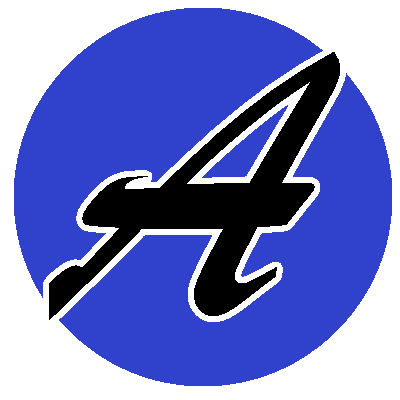
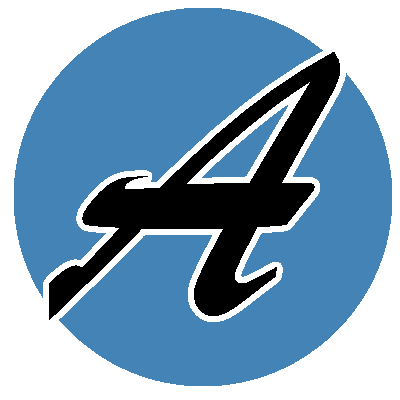
Change of colour scheme

diff --git a/src/compents/ProjectDisplay.js b/src/compents/ProjectDisplay.js
@@ -28,7 +28,7 @@ export default function ProjectDisplay(){
         return(
             <div>
                 <div onClick={handleClick}>
-                    <h1 style={{color : '#3041cb', fontSize : "4vmax", display: 'inline-flex'}}>
+                    <h1 style={{color : '#4483b6', fontSize : "4vmax", display: 'inline-flex'}}>
                         <b>Projects [8]</b>
                     </h1>
                     {isDisplay &&
@@ -44,7 +44,7 @@ export default function ProjectDisplay(){
                     <div style={{display: 'inline-flex'}}>
                         <img src={BilletSortingSystem} style={{width: '40%',  height:'40%', float: 'left'}}/>
                         <div style={{height : '50%', width: '50%', marginLeft: '0.5vmin'}}>
-                            <h2 style={{color : '#3041cb', fontSize : "3vmax"}}><b>Billet Sorting System</b></h2>
+                            <h2 style={{color : '#4483b6', fontSize : "3vmax"}}><b>Billet Sorting System</b></h2>
                             <h3 style={{color : 'white', fontSize : "1.5vmax"}}>
                             This was a team project for Engineering Education Scheme Wales. I lead this project to prove a concept to a 
                             local company. We also presented this project to the customer along with displaying it at a convention
@@ -55,7 +55,7 @@ export default function ProjectDisplay(){
                     <div style={{display: 'inline-flex'}}>                    
                     <img src={SolarCharger} style={{width: '40%',  height:'40%', float: 'left'}}/>
                         <div style={{height : '50%', width: '50%', marginLeft: '0.5vmin'}}>
-                            <h2 style={{color : '#3041cb', fontSize : "3vmax"}}><b>Solar Powered Phone Charger</b></h2>
+                            <h2 style={{color : '#4483b6', fontSize : "3vmax"}}><b>Solar Powered Phone Charger</b></h2>
                             <h3 style={{color : 'white', fontSize : "1.5vmax"}}>
                             This project is incredably simple, buy some solar panels solder a diode to prevent backflow. Then charge your phone (all be it slowly).
                             I also had to work out exactly how USB power rails worked but that was about it.
@@ -66,7 +66,7 @@ export default function ProjectDisplay(){
                     <div style={{display: 'inline-flex'}}>
                         <img src={Speaker} style={{width: '40%',  height:'40%', float: 'left'}}/>
                         <div style={{height : '50%', width: '50%', marginLeft: '0.5vmin'}}>
-                            <h2 style={{color : '#3041cb', fontSize : "3vmax"}}><b>Sound to Light Speaker</b></h2>
+                            <h2 style={{color : '#4483b6', fontSize : "3vmax"}}><b>Sound to Light Speaker</b></h2>
                             <h3 style={{color : 'white', fontSize : "1.5vmax"}}>
                             The core idea here is to use a microphone to identify 3 different tones. When the corresponding tone is played that colour LED lights up. 
                             This is really satisfying to watch
@@ -77,7 +77,7 @@ export default function ProjectDisplay(){
                     <div style={{display: 'inline-flex'}}>
                         <img src={PinBall} style={{width: '40%',  height:'40%', float: 'left'}}/>
                         <div style={{height : '50%', width: '50%', marginLeft: '0.5vmin'}}>
-                            <h2 style={{color : '#3041cb', fontSize : "3vmax"}}><b> Pinball Machine</b></h2>
+                            <h2 style={{color : '#4483b6', fontSize : "3vmax"}}><b> Pinball Machine</b></h2>
                             <h3 style={{color : 'white', fontSize : "1.5vmax"}}>
                             I made this when I was 15, this was my first personal project. The only technical part of this project was the solenoids that provide the force to flippers. 
                             This was actually no easy task, using high voltage is dangerous and I destroyed a few diodes before it worked
@@ -88,7 +88,7 @@ export default function ProjectDisplay(){
                     <div style={{display: 'inline-flex'}}>
                         <img src={Flask} style={{width: '40%',  height:'40%', float: 'left'}}/>
                         <div style={{height : '50%', width: '50%', marginLeft: '0.5vmin'}}>
-                            <h2 style={{color : '#3041cb', fontSize : "3vmax"}}><b>Self-Heating Flask</b></h2>
+                            <h2 style={{color : '#4483b6', fontSize : "3vmax"}}><b>Self-Heating Flask</b></h2>
                             <h3 style={{color : 'white', fontSize : "1.5vmax"}}>
                             So the core idea behind this project was to detect the temperature within the flask, and make it constant. I did this by modifying a flash that I brought, I wrapped chromium wire around the inside of the flash. Then used a thermistor to control when the heating element was active. 
                             I actually wrote the control in basic
@@ -99,7 +99,7 @@ export default function ProjectDisplay(){
                     <div style={{display: 'inline-flex'}}>
                         <img src={BinaryClock} style={{width: '40%',  height:'40%', float: 'left'}}/>
                         <div style={{height : '50%', width: '50%', marginLeft: '0.5vmin'}}>
-                            <h2 style={{color : '#3041cb', fontSize : "3vmax"}}><b>Binary Clock</b></h2>
+                            <h2 style={{color : '#4483b6', fontSize : "3vmax"}}><b>Binary Clock</b></h2>
                             <h3 style={{color : 'white', fontSize : "1.5vmax"}}>
                             The basic concept here is that the top row of LEDs displays the hour and the bottom row displays the minutes. The casing for this project was made out of scrapes that I found around the house,
                             the log (where the LEDs are housed) was from a tree that feel near my house.
@@ -110,7 +110,7 @@ export default function ProjectDisplay(){
                     <div style={{display: 'inline-flex'}}>
                         <img src={Airgun} style={{width: '40%',  height:'40%', float: 'left'}}/>
                         <div style={{height : '50%', width: '50%', marginLeft: '0.5vmin'}}>
-                            <h2 style={{color : '#3041cb', fontSize : "3vmax"}}><b>Airgun</b></h2>
+                            <h2 style={{color : '#4483b6', fontSize : "3vmax"}}><b>Airgun</b></h2>
                             <h3 style={{color : 'white', fontSize : "1.5vmax"}}>
                             This was a fun project, it’s every simple in design. Take some large plastic bottles form airtight seals between them and pump air into them to cause high pressure within the 2-liter bottles.
                             Then use a trigger of some sort to form to release this air and carry BB pellets.
@@ -121,7 +121,7 @@ export default function ProjectDisplay(){
                     <div style={{display: 'inline-flex'}}>
                         <img src={Website} style={{width: '40%',  height:'40%', float: 'left'}}/>
                         <div style={{height : '50%', width: '50%', marginLeft: '0.5vmin'}}>
-                            <h2 style={{color : '#3041cb', fontSize : "3vmax"}}><b> My First Version of this Website</b></h2>
+                            <h2 style={{color : '#4483b6', fontSize : "3vmax"}}><b> My First Version of this Website</b></h2>
                             <h3 style={{color : 'white', fontSize : "1.5vmax"}}>
                             I was just getting to grips with the core concepts of HTML and CSS. Hopefully you will see how the site has improved over time,
                             as I have become more familar with web design.

diff --git a/src/compents/GameDisplay.js b/src/compents/GameDisplay.js
@@ -29,7 +29,7 @@ export default function GameDisplay() {
         return(
             <div>
                 <div onClick={handleClick}>
-                    <h1 style={{color : '#3041cb', fontSize : "4vmax", display: 'inline-flex'}}>
+                    <h1 style={{color : '#4483b6', fontSize : "4vmax", display: 'inline-flex'}}>
                         <b>Games [9]</b>
                     </h1>
                     {isDisplay &&
@@ -45,7 +45,7 @@ export default function GameDisplay() {
                     <div style={{display: 'inline-flex'}}>
                         <img src={DinoFight} style={{width: '40%',  height:'40%', float: 'left'}}/>
                         <div style={{height : '50%', width: '50%', marginLeft: '0.5vmin'}}>
-                            <h2 style={{color : '#3041cb', fontSize : "3vmax"}}><b>Dino Fight</b></h2>
+                            <h2 style={{color : '#4483b6', fontSize : "3vmax"}}><b>Dino Fight</b></h2>
                             <h3 style={{color : 'white', fontSize : "1.5vmax"}}>
                             This was my first local multiplayer game (party game). This is a fighting game that takes input from multiple
                             controllers. Input mangement was probably the most challenging part of this game 
@@ -56,7 +56,7 @@ export default function GameDisplay() {
                     <div style={{display: 'inline-flex'}}>
                         <img src={ArcadeFootball} style={{width: '40%',  height:'40%', float: 'left'}}/>
                         <div style={{height : '50%', width: '50%', marginLeft: '0.5vmin'}}>
-                            <h2 style={{color : '#3041cb', fontSize : "3vmax"}}><b>Arcade Football</b></h2>
+                            <h2 style={{color : '#4483b6', fontSize : "3vmax"}}><b>Arcade Football</b></h2>
                             <h3 style={{color : 'white', fontSize : "1.5vmax"}}>
                             Another local multipler game that required a lot more phyiscs to handle. Working out where the ball should 
                             bounce, how that bounce changes depending on surfaces was a lot of fun
@@ -67,7 +67,7 @@ export default function GameDisplay() {
                     <div style={{display: 'inline-flex'}}>
                         <img src={TurnBased} style={{width: '40%',  height:'40%', float: 'left'}}/>
                         <div style={{height : '50%', width: '50%', marginLeft: '0.5vmin'}}>
-                            <h2 style={{color : '#3041cb', fontSize : "3vmax"}}><b>Turn-Based Strategy</b></h2>
+                            <h2 style={{color : '#4483b6', fontSize : "3vmax"}}><b>Turn-Based Strategy</b></h2>
                             <h3 style={{color : 'white', fontSize : "1.5vmax"}}>
                             This was a single player game. Moving units thought terrain to fight enemies, this is a great example of 
                             object oriented code. The unit required methods along with variables such as attack and health.
@@ -78,7 +78,7 @@ export default function GameDisplay() {
                     <div style={{display: 'inline-flex'}}>
                         <img src={SpaceHex} style={{width: '40%',  height:'40%', float: 'left'}}/>
                         <div style={{height : '50%', width: '50%', marginLeft: '0.5vmin'}}>
-                            <h2 style={{color : '#3041cb', fontSize : "3vmax"}}><b>Space Hex</b></h2>
+                            <h2 style={{color : '#4483b6', fontSize : "3vmax"}}><b>Space Hex</b></h2>
                             <h3 style={{color : 'white', fontSize : "1.5vmax"}}>
                             This is a hex based stategy game. This game helped me understand lists/arrays much better, 
                             with lots of hexs and ships above them I needed to optimise the way object queries were managed.
@@ -89,7 +89,7 @@ export default function GameDisplay() {
                     <div style={{display: 'inline-flex'}}>
                         <img src={BoyInWoods} style={{width: '40%',  height:'40%', float: 'left'}}/>
                         <div style={{height : '50%', width: '50%', marginLeft: '0.5vmin'}}>
-                            <h2 style={{color : '#3041cb', fontSize : "3vmax"}}><b>Boy in the Woods</b></h2>
+                            <h2 style={{color : '#4483b6', fontSize : "3vmax"}}><b>Boy in the Woods</b></h2>
                             <h3 style={{color : 'white', fontSize : "1.5vmax"}}>
                             This is the first game I made after receiving formal education within computer science, as with all of my games and most of my projects I have used the object orientated philosophy.
                             The code is far more organised, this is something I now value highly.
@@ -100,7 +100,7 @@ export default function GameDisplay() {
                     <div style={{display: 'inline-flex'}}>
                         <img src={LockDown} style={{width: '40%',  height:'40%', float: 'left'}}/>
                         <div style={{height : '50%', width: '50%', marginLeft: '0.5vmin'}}>
-                            <h2 style={{color : '#3041cb', fontSize : "3vmax"}}><b>Lock Down Simulator</b></h2>
+                            <h2 style={{color : '#4483b6', fontSize : "3vmax"}}><b>Lock Down Simulator</b></h2>
                             <h3 style={{color : 'white', fontSize : "1.5vmax"}}>
                             During the corona lockdown I 3D modelled a house and began simulating hunger and work. 
                             The pathfinding was easy because the map was static and the behaviors were basically move here and do this. Fun to program, not fun to watch
@@ -111,7 +111,7 @@ export default function GameDisplay() {
                     <div style={{display: 'inline-flex'}}>
                         <img src={RTS} style={{width: '40%',  height:'40%', float: 'left'}}/>
                         <div style={{height : '50%', width: '50%', marginLeft: '0.5vmin'}}>
-                            <h2 style={{color : '#3041cb', fontSize : "3vmax"}}><b>Real Time Strategy</b></h2>
+                            <h2 style={{color : '#4483b6', fontSize : "3vmax"}}><b>Real Time Strategy</b></h2>
                             <h3 style={{color : 'white', fontSize : "1.5vmax"}}>
                             This is a real time strategy game, that only has resource collection. 
                             The original scope was much larger, but after struggling to generate simple collection routines for villages I decided to reduce the scope. 
@@ -122,7 +122,7 @@ export default function GameDisplay() {
                     <div style={{display: 'inline-flex'}}>
                         <img src={ZombieGame} style={{width: '40%',  height:'40%', float: 'left'}}/>
                         <div style={{height : '50%', width: '50%', marginLeft: '0.5vmin'}}>
-                            <h2 style={{color : '#3041cb', fontSize : "3vmax"}}><b>Zombie Game</b></h2>
+                            <h2 style={{color : '#4483b6', fontSize : "3vmax"}}><b>Zombie Game</b></h2>
                             <h3 style={{color : 'white', fontSize : "1.5vmax"}}>
                             Raycasting, pathfinding, AI and storing values in encypted files. 
                             This project taught me that a good design philosophy allows for ways to increase the scope of a project. This is my first "real" single player game.

diff --git a/src/compents/OtherDisplay.js b/src/compents/OtherDisplay.js
@@ -22,7 +22,7 @@ export default function OtherDisplay () {
         return(
             <div style ={{display : 'block'}}>
                 <div onClick={handleClick}>
-                    <h1 style={{color : '#3041cb', fontSize : "4vmax", display: 'inline-flex'}}>
+                    <h1 style={{color : '#4483b6', fontSize : "4vmax", display: 'inline-flex'}}>
                         <b>Other [3]</b>
                     </h1>
                     {isDisplay &&
@@ -38,7 +38,7 @@ export default function OtherDisplay () {
                     <div style={{display: 'inline-flex'}}>
                         <img src={HeadBoy} style={{width: '40%',  height:'40%', float: 'left'}}/>
                         <div style={{height : '50%', width: '50%', marginLeft: '0.5vmin'}}>
-                            <h2 style={{color : '#3041cb', fontSize : "3vmax"}}><b>Head Boy</b></h2>
+                            <h2 style={{color : '#4483b6', fontSize : "3vmax"}}><b>Head Boy</b></h2>
                             <h3 style={{color : 'white', fontSize : "1.5vmax"}}>
                             This was a great experience to have, organising events and public speaking are amoung the skills it helped me to develop 
                             </h3>
@@ -48,7 +48,7 @@ export default function OtherDisplay () {
                     <div style={{display: 'inline-flex'}}>
                         <img src={Dyson} style={{width: '40%',  height:'40%', float: 'left'}}/>
                         <div style={{height : '50%', width: '50%', marginLeft: '0.5vmin'}}>
-                            <h2 style={{color : '#3041cb', fontSize : "3vmax"}}><b>Dyson Mentoring</b></h2>
+                            <h2 style={{color : '#4483b6', fontSize : "3vmax"}}><b>Dyson Mentoring</b></h2>
                             <h3 style={{color : 'white', fontSize : "1.5vmax"}}>
                             I was part of an industry mentoring scheme with Dyson. This involved doing research into a given topic and giving a presentation based on the findings. I won best presentation on one occasion
                             </h3>
@@ -58,7 +58,7 @@ export default function OtherDisplay () {
                     <div style={{display: 'inline-flex'}}>
                         <img src={Cards} style={{width: '40%',  height:'40%', float: 'left'}}/>
                         <div style={{height : '50%', width: '50%', marginLeft: '0.5vmin'}}>
-                            <h2 style={{color : '#3041cb', fontSize : "3vmax"}}><b>Cards For Good Causes</b></h2>
+                            <h2 style={{color : '#4483b6', fontSize : "3vmax"}}><b>Cards For Good Causes</b></h2>
                             <h3 style={{color : 'white', fontSize : "1.5vmax"}}>
                             Over Christmas I volunteer at a card shop that uses donates profit to charity
                             </h3>

diff --git a/src/compents/Chess.js b/src/compents/Chess.js
@@ -21,7 +21,7 @@ function ChessAI () {
     return (
     <div style ={{display : 'block'}}>
         <div onClick={handleClick}>
-                    <h1 style={{color : '#3041cb', fontSize : "4vmax", display: 'inline-flex'}}>
+                    <h1 style={{color : '#4483b6', fontSize : "4vmax", display: 'inline-flex'}}>
                         <b>Interactive [1]</b>
                     </h1>
                     {isDisplay &&
@@ -35,8 +35,8 @@ function ChessAI () {
         {isDisplay &&
         <div>
             <div style = {{display: 'block'}}>
-                <div style={{height : '50%', width: '50%'}}>
-                    <h2 style={{color : '#3041cb', fontSize : "3vmax"}}><b>Chess AI</b></h2>
+                <div style={{height : '50%', width: '100%'}}>
+                    <h2 style={{color : '#4483b6', fontSize : "3vmax"}}><b>Chess AI</b></h2>
                     <h3 style={{color : 'white', fontSize : "1.5vmax"}}>
                     This is a chess AI that I developed during the corona virus lockdown. Feel free to have a go. I'm currently rated about 
                     1500 on chess.com (making me a pretty average chess player), and I never beat this AI. I will be alerted if someone wins!
@@ -49,7 +49,7 @@ function ChessAI () {
                     <Chessboard
                     id="stockfish"
                     position={position}
-                    width={320}
+                    width={400}
                     onDrop={onDrop}
                     boardStyle={boardStyle}
                     orientation="black"

diff --git a/public/index.html b/public/index.html
@@ -2,19 +2,19 @@
 <html lang="en">
   <head>
     <meta charset="utf-8" />
-    <link rel="icon" href="%PUBLIC_URL%/Icon.png" />
+    <link rel="icon" href="Icon.png" />
     <meta name="viewport" content="width=device-width, initial-scale=1" />
     <meta name="theme-color" content="#000000" />
     <meta
       name="description"
       content="Web site created using create-react-app"
     />
-    <link rel="apple-touch-icon" href="%PUBLIC_URL%/logo192.png" />
+    <link rel="apple-touch-icon" href="logo192.png" />
     <!--
       manifest.json provides metadata used when your web app is installed on a
       user's mobile device or desktop. See https://developers.google.com/web/fundamentals/web-app-manifest/
     -->
-    <link rel="manifest" href="%PUBLIC_URL%/manifest.json" />
+    <link rel="manifest" href="manifest.json" />
     <!--
       Notice the use of %PUBLIC_URL% in the tags above.
       It will be replaced with the URL of the `public` folder during the build.
@@ -28,7 +28,7 @@
   </head>
   <body>
     <noscript>You need to enable JavaScript to run this app.</noscript>
-    <div id="root"></div>
+    <div id="root"  style= "background-color: black;"></div>
     <!--
       This HTML file is a template.
       If you open it directly in the browser, you will see an empty page.

diff --git a/src/compents/Qualifications.js b/src/compents/Qualifications.js
@@ -5,7 +5,7 @@ export default class OtherDisplay extends React.Component {
         return(
             <div>
                 <div>
-                    <h2 style={{color : '#3041cb', fontSize : "3vmax"}}>
+                    <h2 style={{color : '#4483b6', fontSize : "3vmax"}}>
                         <b>Formal Education</b>
                     </h2>
                     <h3 style={{color : 'white', fontSize : "1.5vmax"}}>
@@ -14,7 +14,7 @@ export default class OtherDisplay extends React.Component {
                 </div>
 
                 <div>
-                    <h2 style={{color : '#3041cb', fontSize : "3vmax"}}>
+                    <h2 style={{color : '#4483b6', fontSize : "3vmax"}}>
                         <b>Awards</b>
                     </h2>
                     <h3 style={{color : 'white', fontSize : "1.5vmax"}}>
@@ -23,7 +23,7 @@ export default class OtherDisplay extends React.Component {
                 </div>
 
                 <div>
-                    <h2 style={{color : '#3041cb', fontSize : "3vmax"}}>
+                    <h2 style={{color : '#4483b6', fontSize : "3vmax"}}>
                         <b>University Grades</b>
                     </h2>
                     <h3 style={{color : 'white', fontSize : "1.5vmax"}}>

diff --git a/src/App.js b/src/App.js
@@ -11,10 +11,10 @@ import Chess from './compents/Chess'
 
 function App() {
   return (
-    <div style={{backgroundColor : 'black'}}>
+    <div>
       <img src={icon} style={{float: 'right', height: '30vmin', margin: '0.5vmin'}}/>
       <div  style={{marginLeft : "1vw", marginRight : "1vw"}}>
-        <h1 style={{color: "#3041cb", display: "inline-flex", fontSize: "5vmax"}}>My Portfolio</h1>
+        <h1 style={{color: "#4483b6", display: "inline-flex", fontSize: "5vmax"}}>My Portfolio</h1>
         <div>
           <AboutMe/>
           <GameDisplay/>

diff --git a/src/compents/AboutMe.js b/src/compents/AboutMe.js
@@ -5,7 +5,7 @@ export default class AboutMe extends React.Component {
     render(){
         return (
             <div>
-                <h1 style={{fontSize : "3vmax", color: "#3041cb"}}>
+                <h1 style={{fontSize : "3vmax", color: "#4483b6"}}>
                     <b>About Me</b>
                 </h1>
                 <h3 style={{fontSize : "1.5vmax", color: "white"}}>
